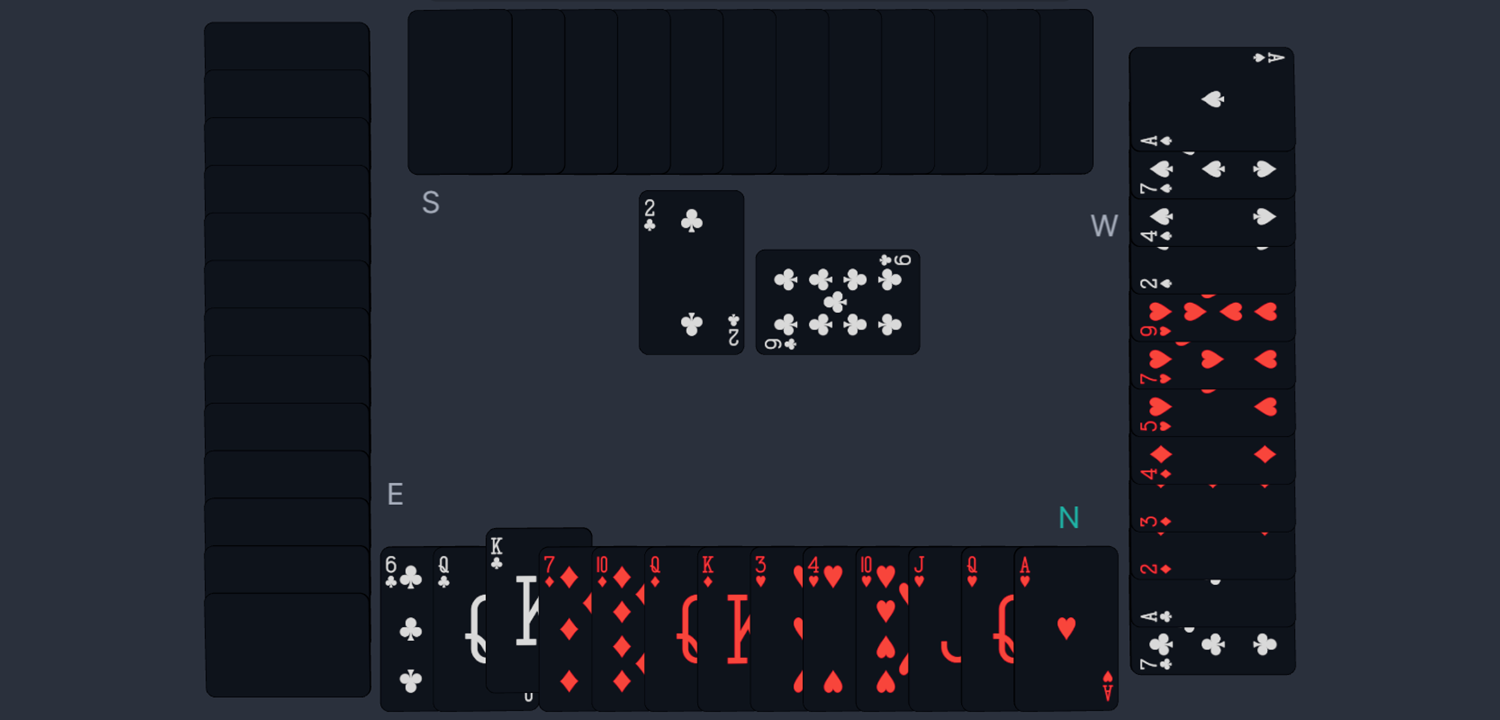
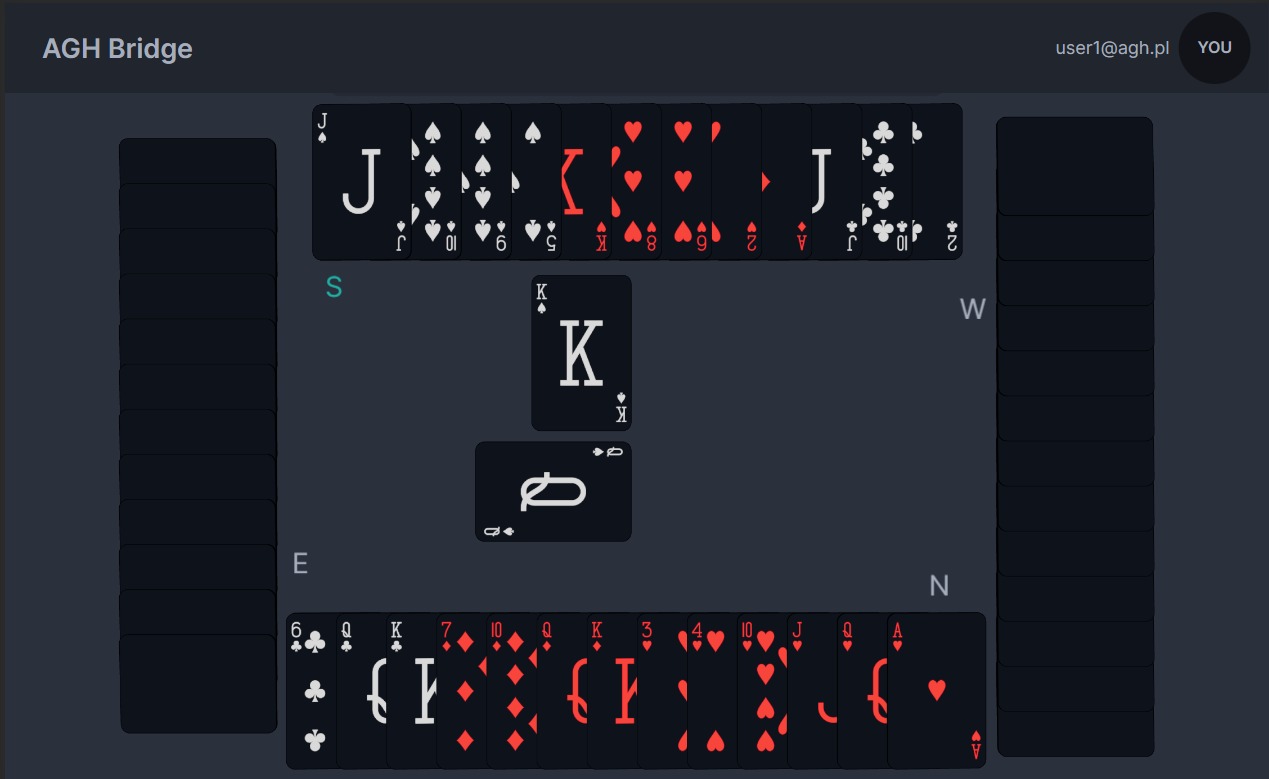
interfejs obrazki

Changed region(s): [[0.0307, 0.0306, 0.922, 1.0], [0.8298, 0.0, 0.9835, 0.1222]]

diff --git a/chapter5.tex b/chapter5.tex
@@ -56,13 +56,12 @@ rezultatów ze szkicami są przedstawione na rysunkach \ref{fig:compare_lobby} i
 
 \begin{figure}[h!]
     \centering
-    \subfloat[Ekran lobby]{
-      \includegraphics[width=0.45\textwidth]{img/figma-szkic/1.png}
-      \label{fig:figma_login2}
+    \subfloat[Ekran gry]{
+      \includegraphics[width=0.45\textwidth]{img/widoki/game.png}
     }%
     \hspace*{0.5cm}
-    \subfloat[Szkic lobby]{
-      \includegraphics[width=0.45\textwidth]{img/figma-szkic/2.png}
+    \subfloat[Szkic gry]{
+      \includegraphics[width=0.45\textwidth]{img/figma-szkic/4.png}
     }%
     \caption{Porównanie ekranu gry z początkowym szkicem}
     \label{fig:compare_game}
@@ -72,16 +71,35 @@ rezultatów ze szkicami są przedstawione na rysunkach \ref{fig:compare_lobby} i
  
 \subsubsection{Tworzenie i dołączenie do gry}
 
-Na stronie głównej aplikacji użytkownik może utworzyć nową rozgrywkę 
-poprzez naciśnięcie przycisku "Create game" lub dołączyć do istniejącej poprzez 
-wpisanie kodu gry otrzymanego od innego użytkownika i~naciśnięcie przycisku "Join".
+Na stronie głównej aplikacji (Rys. \ref{fig:home}) użytkownik może utworzyć nową 
+rozgrywkę poprzez naciśnięcie przycisku "Create a game" lub dołączyć do istniejącej 
+poprzez wpisanie kodu gry otrzymanego od innego użytkownika i~naciśnięcie 
+przycisku "Join".
+
+\begin{figure}[h!]
+  \centering
+  \includegraphics[width=\textwidth]{img/widoki/home.png}
+  \caption{Strona główna aplikacji}
+  \label{fig:home}
+\end{figure}
+
+\FloatBarrier
 
 \subsubsection{Lobby}
 
-Strona lobby służy do zebrania graczy przed rozpoczęciem gry i~ustawienia ich 
+Strona lobby (Rys. \ref{fig:lobby}) służy do zebrania graczy przed rozpoczęciem gry i~ustawienia ich 
 na opdowiednich pozycjach. Widok zawiera cztery pozycje z~pseudonimami graczy,
 którzy się na nich znajdują. Host jest oznaczony ikoną korony, znajdującą się nad nazwą 
 jego pozycji.
+
+\begin{figure}[h!]
+  \centering
+  \includegraphics[width=\textwidth]{img/widoki/lobby.png}
+  \caption{Strona lobby}
+  \label{fig:lobby}
+\end{figure}
+
+\FloatBarrier
 
 \subsubsection{Host}
 
